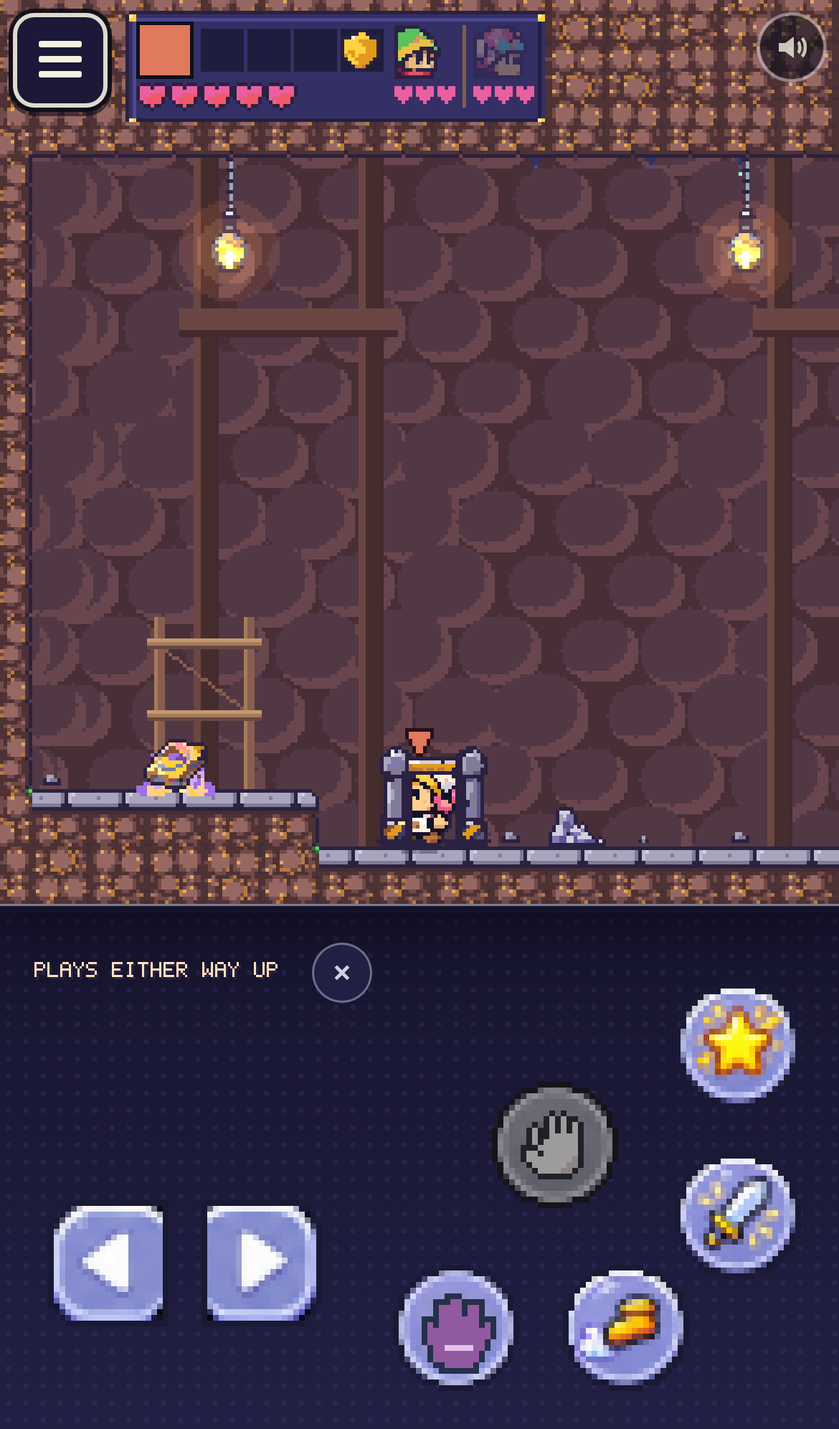
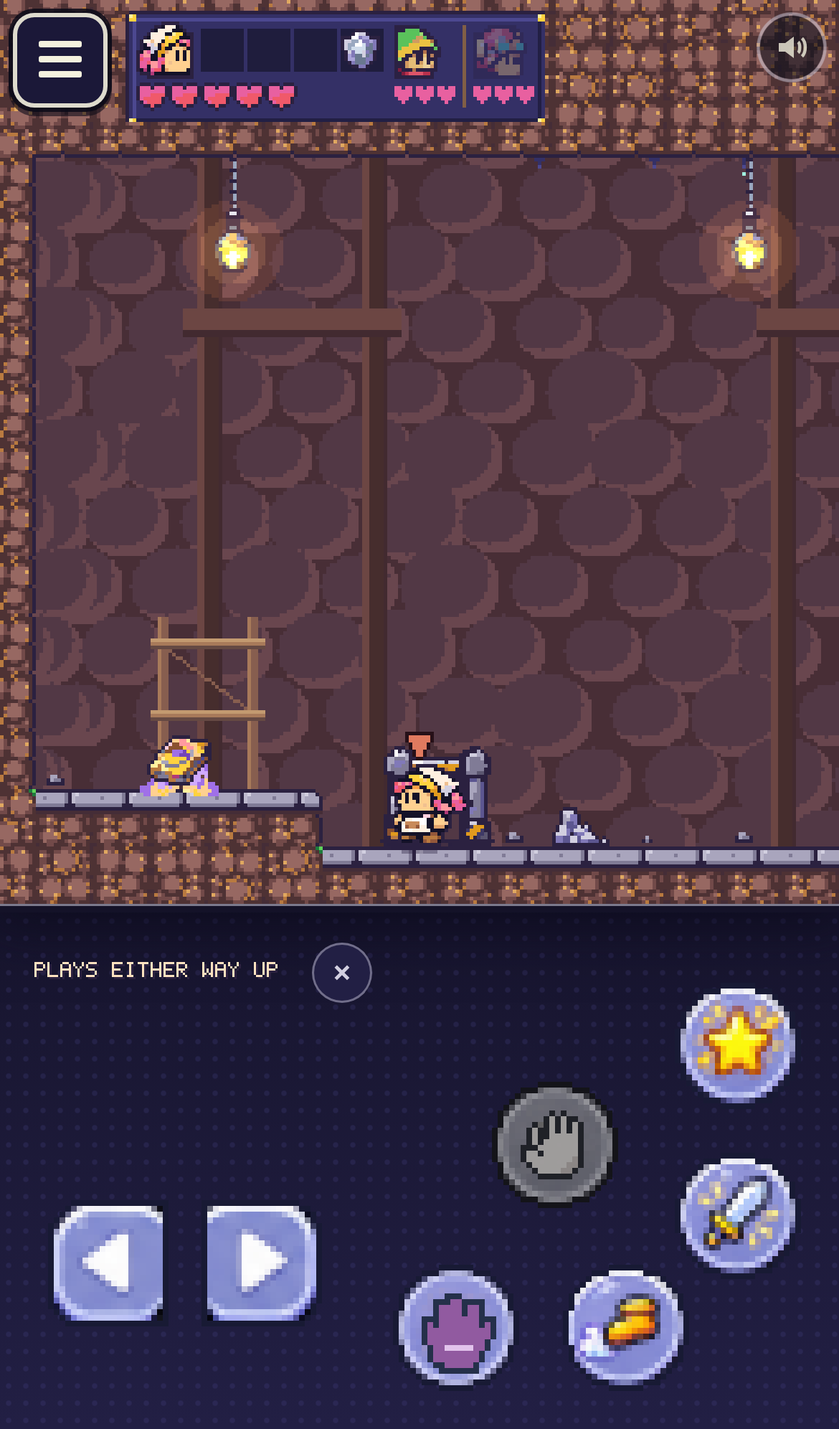
Recruit shown right: the hauler's own face, shown names without "Graybox", an open cage drawn behind the bodies
Why: a blind look at the hidden recruit's shots found three faults a player sees on freeing her
(brief handoff-prompts/recruit-shown-right.md, Step 13, vision-gaps row 12).

- Face: hud-face-hauler cut from her idle frame (tools/art/props drive.HEAD (15,24,35,40), a FACES key),
  the tool re-run. hud.png stays 96x64; all 20 existing ui.json rectangles are pixel-identical (compared by
  script); the only changed pixels are her 16x16 at [80,24]. The make also rewrote four content/decor files
  (pre-existing drift): reverted, not this brief's. The "joins!" flash draws the face at a whole multiple of 16.
- Names: the six roster heroes' `name` lose "Graybox" (DRAFT, decisions-log 2026-11-25 "Shown names"); ids
  untouched; no script or scenario compares those strings.
- Cage: drawRecruits draws in two passes, open cages before the bodies, shut cages and captives after (INTENT).
  drawn.recruits.cages[].layer and drawn.hud.faces[].cut are additive read-outs.

Ran: npm run build, npm run check (ok), npm run gates (6 of 6), the hidden-recruit e2e section (10/10), and
the full npm run e2e. New facts hidden-recruit-banner, -face, -open-cage; control (src/content/assets
stashed, the new e2e kept): all three fail, the other seven pass. Shots re-taken: hidden-freed, -plate
(and pit/cage/cantina from the same run) at 844x390 and 390x664, looked at.
Not verified: the camp's open cage by a played swap (same code path; the camp shot could not be re-taken,
[…]

diff --git a/scripts/e2e/hidden-recruit.ts b/scripts/e2e/hidden-recruit.ts
@@ -311,6 +311,7 @@ export async function hiddenRecruitFacts(kit: Kit & { shots?: string }): Promise
     let state: string | null = null;
     let banner: string | null = null;
     let gauge = 0;
+    let flashFace: string | null | undefined;
     if (inCave) {
       const w = await ph.page.evaluate(() => (window as any).irreverents.content.characters[(window as any).irreverents.drawn.me.kind].box.w);
       await standAt(ph, 8 * 16 - w / 2, -1);
@@ -319,12 +320,13 @@ export async function hiddenRecruitFacts(kit: Kit & { shots?: string }): Promise
       state = await ph.page.evaluate(() => (document.querySelector('#actions [data-action="interact"]') as HTMLElement | null)?.dataset.state ?? null);
       await ph.page.evaluate(() => {
         const w = window as any;
-        w.__free = { gauge: 0, banner: null };
+        w.__free = { gauge: 0, banner: null, flashFace: undefined };
         const look = (): void => {
           const d = w.irreverents.drawn;
           const c = (d.recruits?.cages ?? []).find((x: any) => x.id === 'cave-captive');
           if (c?.gauge) w.__free.gauge = Math.max(w.__free.gauge, c.gauge);
           if (d.banner && !w.__free.banner) w.__free.banner = d.banner.text;
+          if (d.recruits?.flash && w.__free.flashFace === undefined) w.__free.flashFace = d.recruits.flashFace ?? null;
           requestAnimationFrame(look);
         };
         requestAnimationFrame(look);
@@ -341,8 +343,9 @@ export async function hiddenRecruitFacts(kit: Kit & { shots?: string }): Promise
         await ph.cdp.send('Input.dispatchTouchEvent', { type: 'touchEnd', touchPoints: [] });
       }
       await sleep(250);
-      const f = (await ph.page.evaluate(() => (window as any).__free)) as { gauge: number; banner: string | null };
+      const f = (await ph.page.evaluate(() => (window as any).__free)) as { gauge: number; banner: string | null; flashFace?: string | null };
       gauge = f.gauge;
+      flashFace = f.flashFace;
       banner = f.banner ?? ((await ph.page.evaluate(() => (window as any).irreverents.drawn.banner?.text ?? null)) as string | null);
       if (freed) await shots(ph, dir, 'hidden-freed');
     }
@@ -350,6 +353,15 @@ export async function hiddenRecruitFacts(kit: Kit & { shots?: string }): Promise
       'hidden-recruit-freed',
       freed && state === 'free' && !!banner,
       `standing in the cage's middle the Use button said ${JSON.stringify(state)} (expected "free"); a touch held on it filled the hold to ${Math.round(gauge * 100)}% and the page drew the cage ${freed ? 'open' : 'STILL SHUT after 4 s'} with the banner ${JSON.stringify(banner)}`,
+    );
+
+    // Brief recruit-shown-right: the banner's words are her shown name (data) and "joins!", without the builders'
+    // stand-in word; the flash beside the plate is her own cut face, not a colour square.
+    const shownName = (await ph.page.evaluate(() => (window as any).irreverents.content.characters.hauler?.name ?? null)) as string | null;
+    fact(
+      'hidden-recruit-banner',
+      freed && !!shownName && banner === `${shownName} joins!` && !/graybox/i.test(banner ?? '') && flashFace === 'hud-face-hauler',
+      `freed, the banner read ${JSON.stringify(banner)} (expected ${JSON.stringify(`${shownName} joins!`)}, no "Graybox") and the flash beside the plate drew ${flashFace === undefined ? 'NOTHING seen' : flashFace === null ? 'a COLOUR SQUARE (no cut face)' : flashFace}`,
     );
 
     // The friend's cantina now draws her wandering (nobody plays her yet).
@@ -387,6 +399,46 @@ export async function hiddenRecruitFacts(kit: Kit & { shots?: string }): Promise
       `a tap of Use at the open cage ${swapped ? 'swapped the hauler in' : 'did NOT swap her in'}: the first phone's plate lists ${plateA.join(', ')} (her first: it plays her), the friend's ${plateB.join(', ') || 'nothing'}`,
     );
     if (swapped) await shots(ph, dir, 'hidden-plate');
+
+    // Brief recruit-shown-right: every roster hero has a face cut for the plate (so the next recruit without one is
+    // caught here, not by the owner), and the plate drew hers as that cut face.
+    const faces = (await ph.page.evaluate(() => {
+      const irr = (window as any).irreverents;
+      const groups = Object.values(irr.content.looks ?? {}) as any[];
+      const has = (id: string): boolean => groups.some((g) => !!g.looks?.[id]);
+      return {
+        missing: (irr.content.roster?.characters ?? []).filter((k: string) => !has(`hud-face-${k}`)) as string[],
+        plate: (irr.drawn.hud?.faces ?? []).map((f: any) => ({ kind: f.kind, cut: f.cut })) as { kind: string; cut?: boolean }[],
+      };
+    })) as { missing: string[]; plate: { kind: string; cut?: boolean }[] };
+    const herFace = faces.plate.find((f) => f.kind === 'hauler');
+    fact(
+      'hidden-recruit-face',
+      swapped && faces.missing.length === 0 && herFace?.cut === true,
+      `roster heroes without a hud-face look: ${faces.missing.join(', ') || 'none'}; on the plate her face was ${herFace ? (herFace.cut ? 'her cut face' : 'a COLOUR SQUARE') : 'NOT DRAWN'}`,
+    );
+
+    // Brief recruit-shown-right: swapped on the spot, she stands in the open cage's tiles, and the page drew that
+    // cage behind the bodies (never its posts over her).
+    const inCage = swapped
+      ? ((await ph.page.evaluate(() => {
+          const irr = (window as any).irreverents;
+          const d = irr.drawn;
+          const r = irr.content.recruits['cave-captive'];
+          const T = irr.content.rooms[r.room].tile;
+          const box = irr.content.characters[d.me.kind].box;
+          const cage = (d.recruits?.cages ?? []).find((x: any) => x.id === 'cave-captive') ?? null;
+          const x0 = r.tile[0] * T;
+          return { cage, overlaps: d.me.x < x0 + r.w * T && d.me.x + box.w > x0, x: Math.round(d.me.x), x0, x1: x0 + r.w * T };
+        })) as { cage: any; overlaps: boolean; x: number; x0: number; x1: number })
+      : null;
+    fact(
+      'hidden-recruit-open-cage',
+      !!inCage && inCage.overlaps && inCage.cage?.open === true && inCage.cage?.layer === 'behind',
+      inCage
+        ? `swapped in, she stands at x ${inCage.x} (${inCage.overlaps ? 'inside' : 'OUTSIDE'} the cage's ${inCage.x0}-${inCage.x1}); the open cage was drawn ${inCage.cage ? (inCage.cage.layer === 'behind' ? 'behind the bodies' : `in the ${inCage.cage.layer ?? 'FRONT'} layer, OVER her`) : 'NOT AT ALL'}`
+        : 'never swapped in, so never stood in the open cage',
+    );
   } finally {
     await ph.ctx.close().catch(() => {});
     await friend?.ctx.close().catch(() => {});

diff --git a/src/client/draw/recruits.ts b/src/client/draw/recruits.ts
@@ -23,14 +23,20 @@ const GAUGE_EDGE = '#1b1b2f';
 const GAUGE_WELL = '#4a4560';
 const GAUGE_FILL = '#ffd23f';
 const FLASH_EDGE = '#ffd23f';
+const FACE_WELL = '#0f0f1c';
 
 export interface DrawnRecruits {
-  /** The cages this frame drew in this room: the recruit file, its hero, and whether it stands open. */
-  cages: { id: string; character: string; open: boolean; gauge: number | null }[];
+  /**
+   * The cages this frame drew in this room: the recruit file, its hero, whether it stands open, and the layer it
+   * was drawn in (`behind` the bodies once open, `front` of them while shut: the bars over the captive).
+   */
+  cages: { id: string; character: string; open: boolean; gauge: number | null; layer: 'behind' | 'front' }[];
   /** The captives' calls this frame drew: over the cage, or at the screen's edge. */
   calls: { id: string; at: 'cage' | 'edge' }[];
   /** Step 13 push 3: the face flashing beside the party plate after a rescue, if any. */
   flash: string | null;
+  /** The look the flash drew for that face (`hud-face-<kind>`), or null when it fell back to a colour square. */
+  flashFace?: string | null;
 }
 
 let last: DrawnRecruits = { cages: [], calls: [], flash: null };
@@ -46,19 +52,26 @@ function captiveBody(content: Content, e: Entity, character: string, cageW: numb
   return { id: `${e.id}:hero`, kind: character, player: null, room: e.room, x: e.x + (cageW - box.w) / 2, y: e.y - box.h, vx: 0, vy: 0, facing: -1, onGround: true, c: {} };
 }
 
-/** The cages and the heroes in them, in front of the bodies' layer (the bars over the captive). */
-export function drawRecruits(g: CanvasRenderingContext2D, world: World, content: Content, roomId: string, ox: number, oy: number, view?: PlayerView): void {
-  const out: DrawnRecruits = { cages: [], calls: [], flash: null };
-  last = out;
+/**
+ * The cages and the heroes in them. Called twice a frame by render.ts: `behind` before the bodies (it starts the
+ * frame's read-out) draws every open cage; `front` after them draws every shut cage, its captive and its bars.
+ * INTENT (brief recruit-shown-right, 2026-11-25): an open cage never draws over a living body. The swap on the spot
+ * leaves the new hero standing in the cage's tiles, and a blind look read the posts and lintel over them as a fault;
+ * a shut cage keeps its bars over its captive.
+ */
+export function drawRecruits(g: CanvasRenderingContext2D, world: World, content: Content, roomId: string, ox: number, oy: number, view: PlayerView | undefined, layer: 'behind' | 'front'): void {
+  if (layer === 'behind') last = { cages: [], calls: [], flash: null };
+  const out = last;
   if (!view) return;
   for (const { r, e, state } of recruitsOf(world, content)) {
     if (e.room !== roomId) continue;
+    if ((layer === 'behind') !== state.open) continue;
     const T = content.rooms[roomId]!.tile;
     const cageW = r.w * T;
     const x = ox + Math.round(e.x);
     const y = oy + Math.round(e.y);
     const gauge = state.hold ? Math.min(1, state.hold.ticks / Math.max(1, Math.round(r.hold * 60))) : null;
-    out.cages.push({ id: r.id, character: r.character, open: state.open, gauge });
+    out.cages.push({ id: r.id, character: r.character, open: state.open, gauge, layer });
     const hero = state.open ? null : captiveBody(content, e, r.character, cageW);
     if (hero) {
       // Facing whoever is looking, so the captive reads as calling to them.
@@ -181,8 +194,18 @@ export function drawRecruitFlash(g: CanvasRenderingContext2D, content: Content, 
   const on = Math.floor(frame / 8) % 2 === 0;
   g.fillStyle = on ? FLASH_EDGE : INK;
   g.fillRect(x - 1, y - 1, size + 2, size + 2);
-  if (!drawLook(g, content, `hud-face-${flash.kind}`, x, y, { w: size, h: size })) {
+  const l = look(content, `hud-face-${flash.kind}`);
+  if (l) {
+    // DRAFT (brief recruit-shown-right): the face at a whole multiple of its own pixels, centred on the plate's
+    // dark, so a 16 px face in an 18 px square stays crisp rather than stretched by one uneven row.
+    const k = Math.max(1, Math.floor(size / Math.max(l.w, l.h)));
+    g.fillStyle = FACE_WELL;
+    g.fillRect(x, y, size, size);
+    drawLook(g, content, l.id, x + Math.floor((size - l.w * k) / 2), y + Math.floor((size - l.h * k) / 2), { w: l.w * k, h: l.h * k });
+    last.flashFace = l.id;
+  } else {
     g.fillStyle = content.characters[flash.kind]?.color ?? PAPER;
     g.fillRect(x, y, size, size);
+    last.flashFace = null;
   }
 }

diff --git a/src/client/draw/hud.ts b/src/client/draw/hud.ts
@@ -58,7 +58,7 @@ const DIVIDER = 'rgba(224, 154, 30, 0.45)';
 
 export interface DrawnHud {
   /** In plate order: the viewer's own first. `played`: by the viewer or a friend. `out`: no hearts left (Step 21, drawn greyed). */
-  faces: { kind: string; me: boolean; played: boolean; out: boolean }[];
+  faces: { kind: string; me: boolean; played: boolean; out: boolean; cut?: boolean }[];
   /** What each of the viewer's slots shows (a look id), or null. */
   slots: Record<HudSlot, string | null>;
   /** The plate, in game pixels of the view. */
@@ -322,7 +322,8 @@ export function drawHud(g: CanvasRenderingContext2D, world: World, content: Cont
     cx += SLOT + 1;
   }
   cx += GAP;
-  const faces: DrawnHud['faces'] = [{ kind: mine, me: true, played: true, out: mineOut }];
+  // `cut`: the face is its own `hud-face-<kind>` look, not the colour-square fallback (brief recruit-shown-right's e2e reads it).
+  const faces: DrawnHud['faces'] = [{ kind: mine, me: true, played: true, out: mineOut, cut: !!look(content, `hud-face-${mine}`) }];
   others.forEach((k, i) => {
     if (i > 0) {
       g.fillStyle = DIVIDER;
@@ -338,7 +339,7 @@ export function drawHud(g: CanvasRenderingContext2D, world: World, content: Cont
       strong.push((c) => drawHeartRow(c, world, content, k, hx, y + PAD + FACE + 2, false, frame, FRIEND_LINE, cw));
       heartRows.push({ x: hx, y: y + PAD + FACE + 2, w: cw, h: Math.ceil(maxHearts(content, k) / FRIEND_LINE) * small.step });
     }
-    faces.push({ kind: k, me: false, played, out });
+    faces.push({ kind: k, me: false, played, out, cut: !!look(content, `hud-face-${k}`) });
     cx += col(k) + FRIEND_GAP;
   });
   // Solid: as always, in the plate. Faded: full strength with a dark rim (the e2e's control: unrimmed at the old 0.6 of the fade, as before).

diff --git a/src/client/render.ts b/src/client/render.ts
@@ -122,9 +122,12 @@ export function render(g: CanvasRenderingContext2D, world: World, content: Conte
   drawPrizeStands(g, world, content, roomId, ox, oy);
   // Step 19: every person's sight, faint, behind the bodies (draw/sight.ts).
   drawSight(g, world, content, roomId, ox, oy);
+  // INTENT (brief recruit-shown-right): an open cage behind the bodies, so whoever stands in it after the swap is
+  // never drawn behind its posts (src/client/draw/recruits.ts).
+  drawRecruits(g, world, content, roomId, ox, oy, pv, 'behind');
   drawEntities(g, world, content, roomId, ox, oy, pv);
-  // Step 13: a captive in a cage, the bars over them (src/client/draw/recruits.ts).
-  drawRecruits(g, world, content, roomId, ox, oy, pv);
+  // Step 13: a shut cage's captive, the bars over them (src/client/draw/recruits.ts).
+  drawRecruits(g, world, content, roomId, ox, oy, pv, 'front');
   drawSignalers(g, world, content, roomId, ox, oy);
   drawAway(g, world, content, roomId, ox, oy, pv);
   drawPowers(g, world, content, roomId, ox, oy, pv); // Step 9: carriers' orbs, loose orbs, holders' glow

diff --git a/tools/art/props/round3.py b/tools/art/props/round3.py
@@ -625,6 +625,22 @@ FACES = {
         '...kkkkk....',
         '............',
     ],
+    # the hidden recruit (content/characters/hauler.json): a white head-cloth over a gold band, pink at the sides.
+    # DRAFT: the drawn fallback only; the HUD sheet cuts her face from her own sprite (drive.HEAD['hauler']).
+    'hauler': [
+        '...kkkkkk...',
+        '..kWWWWWWk..',
+        '.kWWWWWWWWk.',
+        'kgGGGGGGGGgk',
+        'kpSsssssssSk',
+        'pPSesSSsesSk',
+        'pPSesSSsesSk',
+        'kpSssssssssk',
+        '.kSsshhsssk.',
+        '..kssssssk..',
+        '...kkkkkk...',
+        '............',
+    ],
 }
 
 

diff --git a/tools/art/props/drive.py b/tools/art/props/drive.py
@@ -112,7 +112,9 @@ from sizes import ROOT
 from srcimport import reink
 
 HEAD = {'grappler': (13, 14, 38, 34), 'infiltrator': (19, 22, 35, 38), 'flyer': (15, 19, 37, 37),
-        'brawler': (16, 15, 37, 34), 'skirmisher': (16, 19, 38, 37)}
+        'brawler': (16, 15, 37, 34), 'skirmisher': (16, 19, 38, 37),
+        # DRAFT: the hidden recruit's head-cloth and face (her idle frame; 20 x 16 keeps both eyes at 16 x 16)
+        'hauler': (15, 24, 35, 40)}
 
 
 def _shrink(im, w, h):

diff --git a/docs/plan/step-13.md b/docs/plan/step-13.md
@@ -190,3 +190,7 @@ orchestrator; three pushes: the hauler in the cave, the stone only she lifts,
 - **Not done in push 1:** the HUD face `hud-face-hauler` (optional; adding it relays out the shared HUD sheet, so the party plate shows her colour square). Shots of the banner, her in the cantina and her holding the boulder were not taken: a Use hold by touch at the cage (one 2.8 s press of the Use button) did not free her on the page, and I did not chase why, since the hold by touch is optional and the scenarios prove the hold. **Doubt worth a look:** whether a held Use button on a phone fills a cage's hold at all (the camp's rescue e2e also leaves it out); nobody has tried either cage on a real iPhone. Shots: `docs/plan/step-13-shots/hidden-pit-*`, `hidden-cage-*`.
 - **Push 2 (same session).** The stone, the heavy plate, the hatch and the pocket, as the brief's layout except **the stone moved from the hall floor [25,12] to the stair's lowest step [22,10]**: on the floor (and at [28,12]) it blocked bodies thrown in through the window, turning `step3-weight-king` and `step3-weight-heavy-crate-thrown` red; on the step it is still two floors below the plate and floor sliders pass under it; all 27 undercroft scenarios and every `step14-*` stayed green. `step13-stone-only-she` runs without placements (the stone as an entity at the same tile) so the stair's thrower is not in it; under his fire in play is untested. The plate's way out is proved by `step13-heavy-pocket-way-out-*` (grappler, infiltrator, flyer, hauler; control: the one-ways made solid by `tiles`): the way-out check is blind to this pocket, as to the stone plate's, so the brief's "watch the check fail" could not be done (made solid, it says nothing). The near-miss scenario sets the brawler and the throne resting on the plate (470) rather than carried (the plate counts both the same). e2e `hidden-recruit-stone` green (control `E2E_TOUCH_BREAK=interact` fails); it can only show the stone was not lifted, not that Grab was refused (a sound). **Not measured:** the forest boulder punched onto its plate, and the stone nudged east through the throne-room wall (it now starts on a step, so that story changed). Shots `hidden-stone-*`.
 - **Before push 3 and push 3 (session_017WiGzG1qWeHNiu66ZaDHnP, 2026-11-25).** **A phone can free her:** by touch on a phone-sized page with every socket message held 150 ms each way, 10 holds of Use (2.8 s) at her cage, each in a new world, freed her 10 of 10. The first builder's miss was where it stood, not the touch: at x `160 - w/2` the body's middle is 157 px, past the cage's reach (it ends at 150, `src/sim/use/free.ts`: within 22 px of the cage's middle, 128), and the Use button never said FREE (it said nothing, gauge 0). From the cage's middle the button says FREE and the gauge fills (99%) first time. Not a game fault, logged as a doubt: a body flush against the cage's side is just outside its reach. **The camp's control** by the same touch: walking the camp's open floor to the cage, the fighters knock the grappler off it and the hold never fills (gauges 17% and 28% in six tries): caught, as designed; the touch hold itself filled. Not 10 holds there: unseen needs the ledge route's timing, which touch at 150 ms does not keep. e2e (in a new kept game, by touch): `hidden-recruit-not-early`, `-freed`, `-cantina`, `-plate`, control `E2E_TOUCH_BREAK=interact` (all three after not-early fail). Shots `hidden-freed-*` (the banner), `hidden-cantina-*`, `hidden-plate-*`. **Her face on the plate is a plain colour square** (no `hud-face-hauler` cut; push 1 left it): plainly seen in the shots. **Not taken: her lifting the forest's boulder**, by touch (the trail's route to column 74 is long and was not walked; `step13-hauler-lifts-the-boulder` proves the lift). **A new game does not show her early:** `step13-hauler-new-game-cantina` (the roster's `start`, every room's placements as the server's new world has them; control: the hold let go at 2.0 s, she never appears). **Push 3:** `step13-free-while-caught` and its control `step13-free-while-caught-not-dealt-with`, the camp as it is. Re-measured: a friend seen at the door's side (column 11) gets the lookout's call going at tick 115, done at 294; the first wave's one fighter walks in at the entry at column 36 and makes for the friend, passing under the ledge, and never comes near the cage. The fighter who comes at the cage is the camp's second, turning east as the hero arrives; a grab as he arrives and a throw west, into the first fighter, puts both out; the hold then runs unbroken while the wave's fighter is in the camp. No game change. **The forest boulder punched onto its plate, measured once (a scratch scenario, not kept):** the grappler alone, no power, from the trail's spawn 1, punching east every half second and stepping after it, moves `slab-boulder` from column 73.8 to 77.0 in about ten punches; `plate-down` at tick 552 (once more at 582) and it rests on the plate. So the forest's slab does not need Brawn or the hauler, as the brief's arithmetic said. Left as it is (the brief: do not change the forest); a question for the owner's playing, not a fault.
+
+### Recruit shown right: builder notes (newest last)
+
+- **One push (session_017WiGzGffLu42yKrbPuQphJ, 2026-11-25), brief `handoff-prompts/recruit-shown-right.md`.** **Her face:** `HEAD['hauler'] = (15, 24, 35, 40)` in `tools/art/props/drive.py` (four boxes tried at 16 x 16; this one keeps both eyes), a `hauler` key in `round3.FACES`, the tool re-run. `assets/ui/hud.png` stays 96 x 64; every one of the 20 existing `ui.json` rectangles is pixel-identical before and after (compared by script), and the only changed pixels are her new 16 x 16 at [80, 24]. **The make also rewrote four `content/decor/*.json` files** (undercroft, quarry-depot, quarry-pit, quarry-road: decor re-placed after the rooms changed since its last run): reverted, outside this brief; whoever owns decor next should re-run it on purpose. **The flash** now draws the face at a whole multiple of 16 centred on a dark square (it was stretched to the plate's height less 4). **Names:** the six `name` fields lose "Graybox"; a grep of `scripts/`, `scenarios/`, `src/` for `Graybox` found only comments, `drawGraybox` in `room.ts` and the room `graybox-hall` (none a shown hero name, none compared): nothing else changed. Old Hall records keep their written names. **The cage:** `drawRecruits` takes a layer, `'behind'` before the bodies (open cages), `'front'` after (shut cages and captives). **Facts** (`scripts/e2e/hidden-recruit.ts`): `hidden-recruit-banner` (banner words and the flash's cut face), `hidden-recruit-face` (every roster id has a `hud-face-<id>` look; her plate face is cut: one read-out field `cut` in `hud.ts`), `hidden-recruit-open-cage` (swapped in she stands in the cage's tiles and the open cage is in the `behind` layer). **Controls watched failing:** `src/`, `content/`, `assets/` stashed, the new e2e file kept: all three fail ("Graybox Hauler joins!" and a colour square; "hauler" without a face; "drawn in the FRONT layer, OVER her"), the other seven stay green. **Not done:** no fact for the camp's open cage (the camp's swap needs the timed unseen hold, which touch does not keep: push 3's notes); the code path is the same. **The camp's `rescue-swapped-*` were NOT re-shot:** editing the page's own world (as `tools/scenario-bots/shots.mjs` stands a hero) does not keep a cage open, because each snapshot replaces it (the page read it shut), so the old shots stay and still show the posts over the skirmisher. Re-shot at both sizes: `hidden-freed-*` ("Hauler joins!", her face in the flash), `hidden-plate-*` (her face on the plate, her in front of the open cage's posts), and, from the same run, `hidden-pit-*`, `-cage-*`, `-cantina-*`.

diff --git a/docs/mechanisms/recruits.md b/docs/mechanisms/recruits.md
@@ -83,6 +83,16 @@ ids never change.
   calls }`. The cage is `cage-shut` / `cage-open` (P04's barred gate, cut
   by the core-loop art builder, `content/looks/outpost.json`); a recruit
   file without looks gets plain drawn bars (`drawBars`).
+- **Which layer a cage is drawn in** (brief `recruit-shown-right`,
+  2026-11-25): `render.ts` calls `drawRecruits` twice, `'behind'` just
+  before `drawEntities` (it starts the frame's read-out) and `'front'` just
+  after. **`INTENT:` an open cage is drawn behind the bodies** (the swap on
+  the spot leaves the new hero standing in its tiles, and its posts and
+  lintel over them read as a fault); **a shut cage, its captive and its
+  bars stay in front** (the bars over the captive). Each entry of
+  `drawn.recruits.cages` says its `layer`. Proven by the e2e fact
+  `hidden-recruit-open-cage` (control: one pass after the bodies, as
+  before; fails).
 
 ## FREE (push 3)
 
@@ -113,8 +123,12 @@ ids never change.
 - **On a phone:** the gauge is a bar over the cage (`t-no-numbers`), from
   `c.recruit.hold` on the camp's entity; `recruited` is a world event, so
   every page in the world, any room, queues a banner "<name> joins!"
-  (`draw/banner.ts`), flashes the new face beside the party plate
-  (`drawRecruitFlash`) and plays the fanfare (`content/sounds/recruited.json`,
+  (`draw/banner.ts`; `<name>` is the character file's `name`, data: `DRAFT:`
+  the role word alone, "Hauler joins!", decisions-log 2026-11-25 "Shown
+  names"), flashes the new face beside the party plate
+  (`drawRecruitFlash`: the `hud-face-<kind>` look at a whole multiple of its
+  16 px, centred on a dark square the plate's height; `drawn.recruits.flashFace`
+  names the look drawn, null for the colour-square fallback) and plays the fanfare (`content/sounds/recruited.json`,
   the approved pack's `secret_found_chime.wav`); `World.roster` reaches
   every page by key.
 - **Caught:** the fighter who sees a hero at the cage comes at them; his
@@ -158,3 +172,27 @@ ids never change.
 - **Not shown early:** in a new game's world (the roster's `start`) she is no cantina regular and not in the party while caged; freed, she wanders the cantina from the next tick, and swapped in she is on the plate (`step13-hauler-new-game-cantina`; e2e `hidden-recruit-not-early`, `-cantina`, `-plate`, run in a new kept game made by the start screen's New game, because a `?room=` world has everyone).
 - **Where to stand to free her:** the cage's reach is the body's middle within 22 px of the cage's middle across (src/sim/use/free.ts), so a body flush against the cage's side is just outside it and the Use button says nothing; inside the cage it says FREE. By touch at 150 ms each way, a hold from the cage's middle freed her 10 of 10 (2026-11-25); from its east edge (the body's middle at 157 px), 0.
 - **Proven by:** `step13-hauler-freed-in-the-cave`, `step13-hauler-lifts-the-boulder`, `step13-hauler-cave-put-back`, `step13-hauler-cave-put-back-freed`, `step13-hauler-new-game-cantina`, e2e `hidden-recruit-not-shown`, `hidden-recruit-cave`, `hidden-recruit-not-early`, `hidden-recruit-freed` (a touch hold), `hidden-recruit-cantina`, `hidden-recruit-plate` (`scripts/e2e/hidden-recruit.ts`).
+
+## A recruit's face (brief recruit-shown-right, 2026-11-25)
+
+- **Every roster hero needs a `hud-face-<id>` look**, or the party plate
+  and the "joins!" flash fall back to a square of the character's colour
+  (`src/client/draw/hud.ts`, `face()`; `drawRecruitFlash`). The e2e fact
+  `hidden-recruit-face` fails on any `roster.characters` id without one,
+  so a new recruit without a face is caught by the check
+  (`drawn.hud.faces[].cut` says whether a plate face was its cut look).
+- **How one is made:** cut from the hero's own sheet, the first idle frame,
+  by `tools/art/props/drive.py` `hud_face()`: add the head's box in that
+  frame to `HEAD` (`drive.py`), a key to `FACES`
+  (`tools/art/props/round3.py`, which make.py iterates for the face row;
+  its 12 x 12 drawing is only a fallback), and re-run
+  `python3 -I tools/art/props/make.py`. That rewrites `assets/ui/hud.png`
+  and `content/looks/ui.json` together; compare every existing rectangle's
+  pixels before and after (a sixth face fit the face row's 96 px, so
+  nothing else moved). The make also rewrites `content/decor/*.json`;
+  on 2026-11-25 it re-placed four rooms' decor (the rooms changed after
+  the last decor run), which the recruit's builder reverted as outside
+  the brief. The hauler's box is `(15, 24, 35, 40)`, `DRAFT:`.
+- **The six heroes' shown names** are the role word alone (`DRAFT:`, ids
+  unchanged): proven by `hidden-recruit-banner` (the banner reads
+  `<name> joins!` with no "Graybox"; control: the old names, fails).

diff --git a/docs/mechanisms/asset-coverage.md b/docs/mechanisms/asset-coverage.md
@@ -98,7 +98,7 @@ Canon identity is doc 36 and the P03 hero sheet; A00-04 and P05-RARE show the sa
 | `sprite:hero` | approved-source-not-used | `P01/p01-complete/sprites/heroes/scout_7states_48px.png` (7 cells 48x48: idle, walk_a, walk_b, dash, attack, jump, crouch; hard alpha). Anchor (18,19). | look3-heroes, brief amendment (its section 4 says 'leave them'): tools/art/heroes/make.py copies the scout strip; hero.json 48x48, idle [0], run [1,2,3], air/jump [5], hide [6], talk [0]. Zero-art alternative: point hero.json at the canon grappler. BACKLOG (fallback players never see). |
 | `sprite:brawler` | uses-approved | `P04/cantina-npc-sprite-sheet.png` row 3, the bald strongman: idle (48,593)-(216,790), walks (244,599)-(400,790), (427,597)-(565,790), fists up (583,605)-(777,790), punch (776,606)-(980,790), yell (1022,614)-(1209,790), KO (1206,687)-(1411,790) (cut3.py brawler()). | look3-cast: tumble and the curled held still owed (unblocked: the actors validator a59a302 is on main). |
 | `sprite:skirmisher` | uses-approved | `P04/cantina-npc-sprite-sheet.png` row 2, the feathered-hat patron: idle (66,349)-(229,545), cheer (268,360)-(447,545), side-eye (499,359)-(645,545), punch (692,356)-(922,545), knocked flying (932,353)-(1142,520), KO (1161,420)-(1388,545) (cut3.py skirmisher()). | look3-cast: tumble and held owed. Run slides (the plate has no walk); P04 row 4's bard dash (x ~766-991, y ~840-1040) is a stride reference only, re-dressed, never cut as-is. |
-| `sprite:hauler` | uses-approved | `P04/cantina-npc-sprite-sheet.png` row 1, the barkeep in a head-cloth and apron: idle (68,105)-(228,272), talk (283,105)-(470,272), cheer (497,110)-(690,272), worried (735,112)-(885,272), charging (955,100)-(1145,272), KO (1160,185)-(1385,272); effect marks cut off (cut3.py hauler()). | hidden-recruit push 1: run slides (no walk on the plate); tumble, held and her own carry owed; no `hud-face-hauler` yet (the plate shows her colour). |
+| `sprite:hauler` | uses-approved | `P04/cantina-npc-sprite-sheet.png` row 1, the barkeep in a head-cloth and apron: idle (68,105)-(228,272), talk (283,105)-(470,272), cheer (497,110)-(690,272), worried (735,112)-(885,272), charging (955,100)-(1145,272), KO (1160,185)-(1385,272); effect marks cut off (cut3.py hauler()). | hidden-recruit push 1: run slides (no walk on the plate); tumble, held and her own carry owed. `hud-face-hauler` cut from her idle frame since 2026-11-25 (`drive.HEAD`, brief recruit-shown-right). |
 
 ## NPCs and enemies
 
